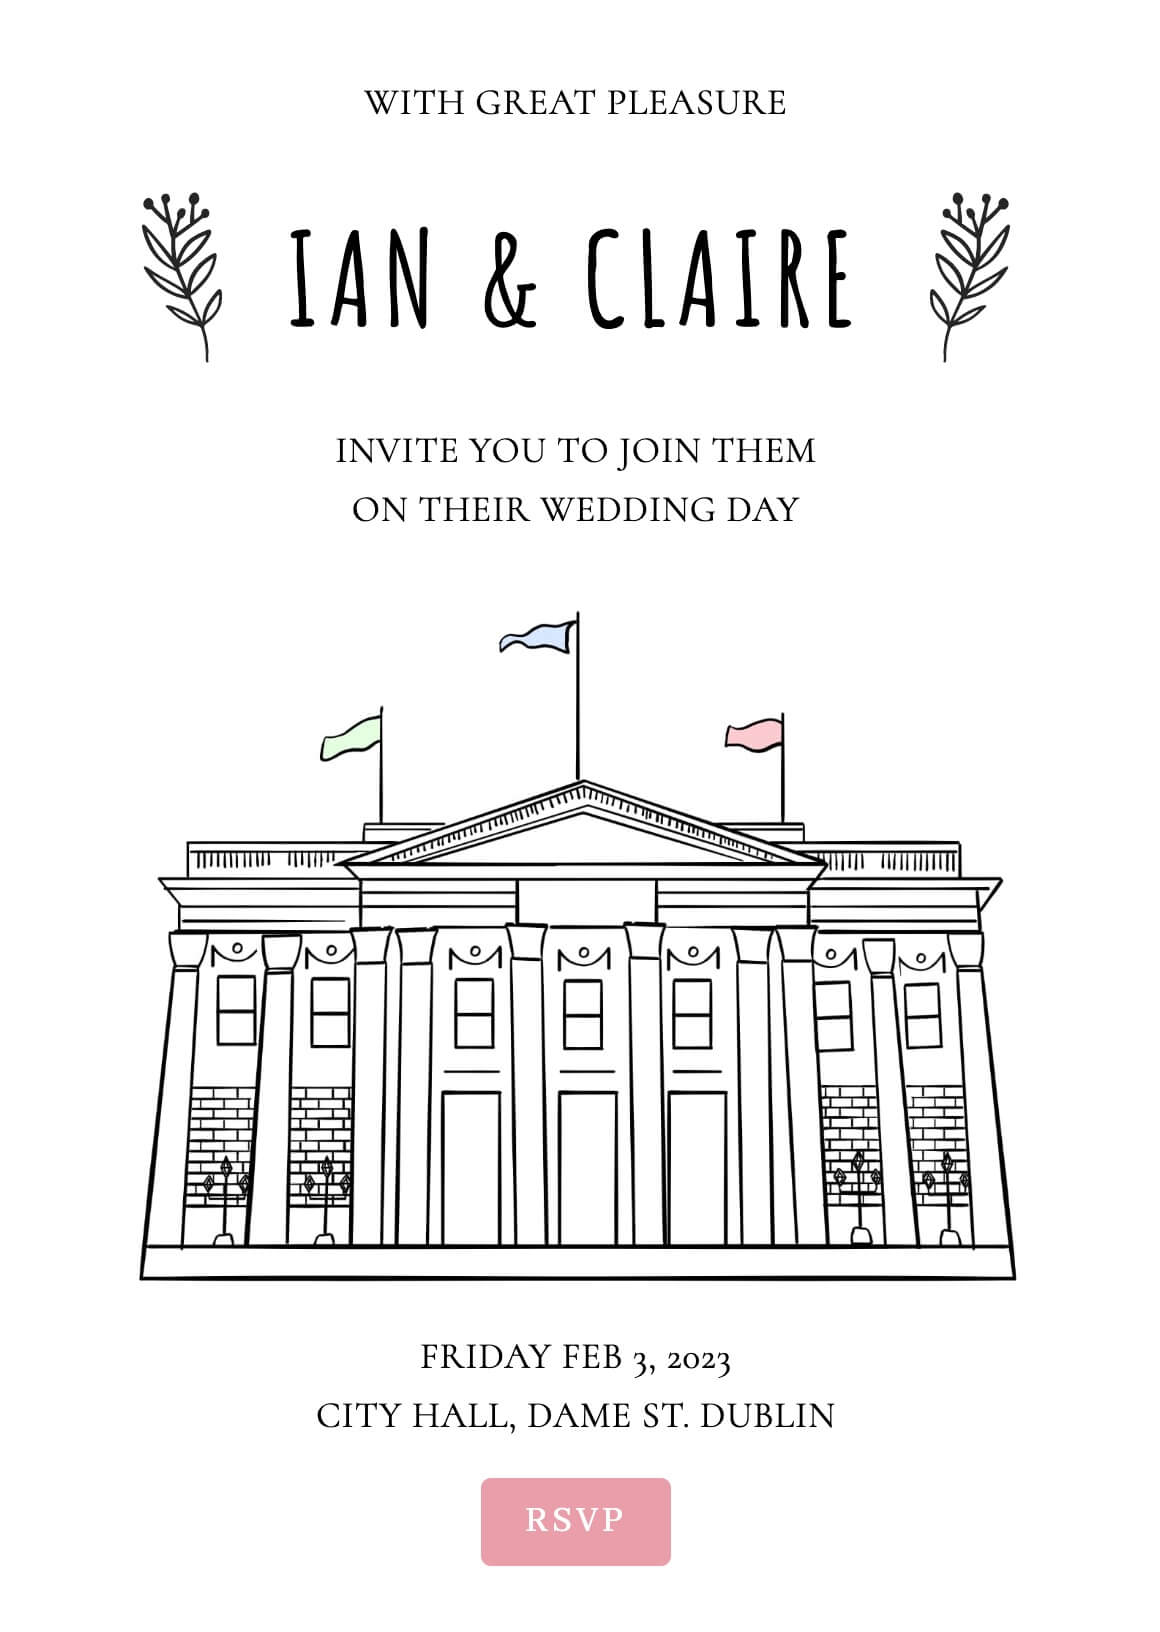
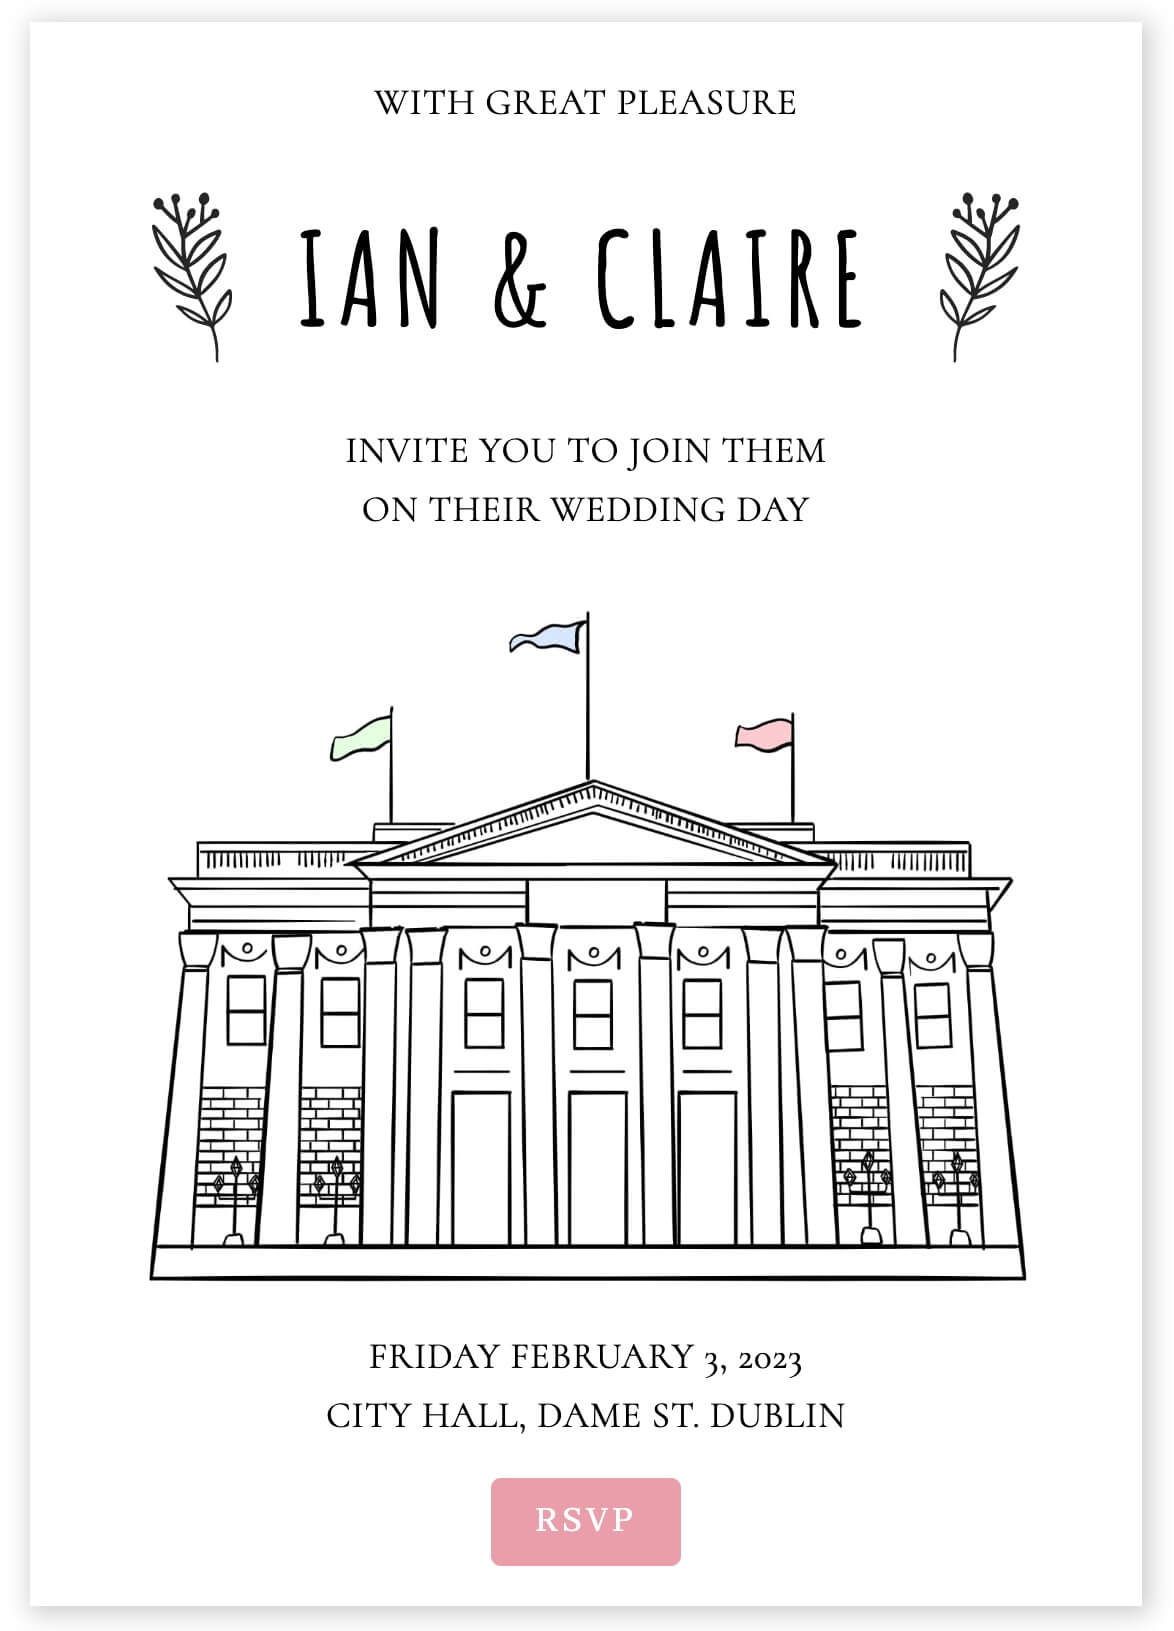
Invite

diff --git a/sections/invitation.js b/sections/invitation.js
@@ -8,15 +8,14 @@ import Quote from '../components/quote';
 import { AnchorButton } from '../components/button';
 
 const Wrapper = styled.div`
-  margin: 0 0 3rem 0;
-  padding: 0 1rem;
   display: flex;
   flex-direction: column;
   text-transform: uppercase;
-  @media (${theme.devices.md}) {
-    display: block;
-    padding: 0;
-  }
+  display: block;
+  padding: 0;
+  box-shadow: 2px 2px 12px 2px #ccc;
+  display: block;
+  margin: 10px;
 `;
 
 const ButtonWrapper = styled.div`
@@ -83,7 +82,7 @@ export default function ({}) {
       <ImageWrapper>
         <Image src="/images/hall.jpg" alt="City Hall" title="City Hall" priority="true"/>
       </ImageWrapper>
-      <Paragraph>Friday Feb 3, 2023 <br/> City Hall, Dame St. Dublin</Paragraph>
+      <Paragraph>Friday February 3, 2023 <br/> City Hall, Dame St. Dublin</Paragraph>
       <ButtonWrapper>
         <AnchorButton text="RSVP" href="#rsvp"/>
       </ButtonWrapper>

diff --git a/pages/email.js b/pages/email.js
@@ -8,11 +8,6 @@ const Invite = styled.div`
   max-width: 500px;
   margin: 0 auto;
   text-align: center;
-  a {
-    box-shadow: 2px 2px 12px 2px #ccc;
-    display: block;
-    margin: 10px;
-  }
 `;
 
 export default function (props) {
